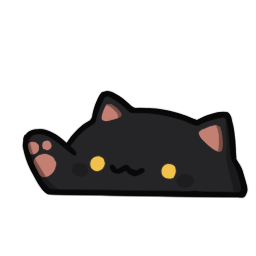
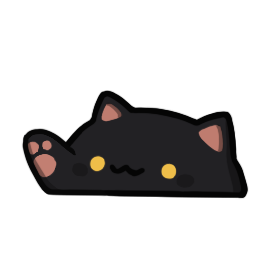
添加夏日活动素材

diff --git a/Utilities/GlobalHelper.cs b/Utilities/GlobalHelper.cs
@@ -7,7 +7,7 @@ namespace BongoCat_Like.Utilities
     {
         public static string ProjectName { get; } = "BongoCat_Like";
         public static string Name { get; } = "BongoCat-Like";
-        public static string Version { get; } = "1.0.202600607";
+        public static string Version { get; } = "1.0.20260628";
         public static string Url { get; } = "https://github.com/WLongSAMA/BongoCatLike";
         public static int WindowWidth { get; } = 256;
         public static int WindowHeight { get; } = 256;